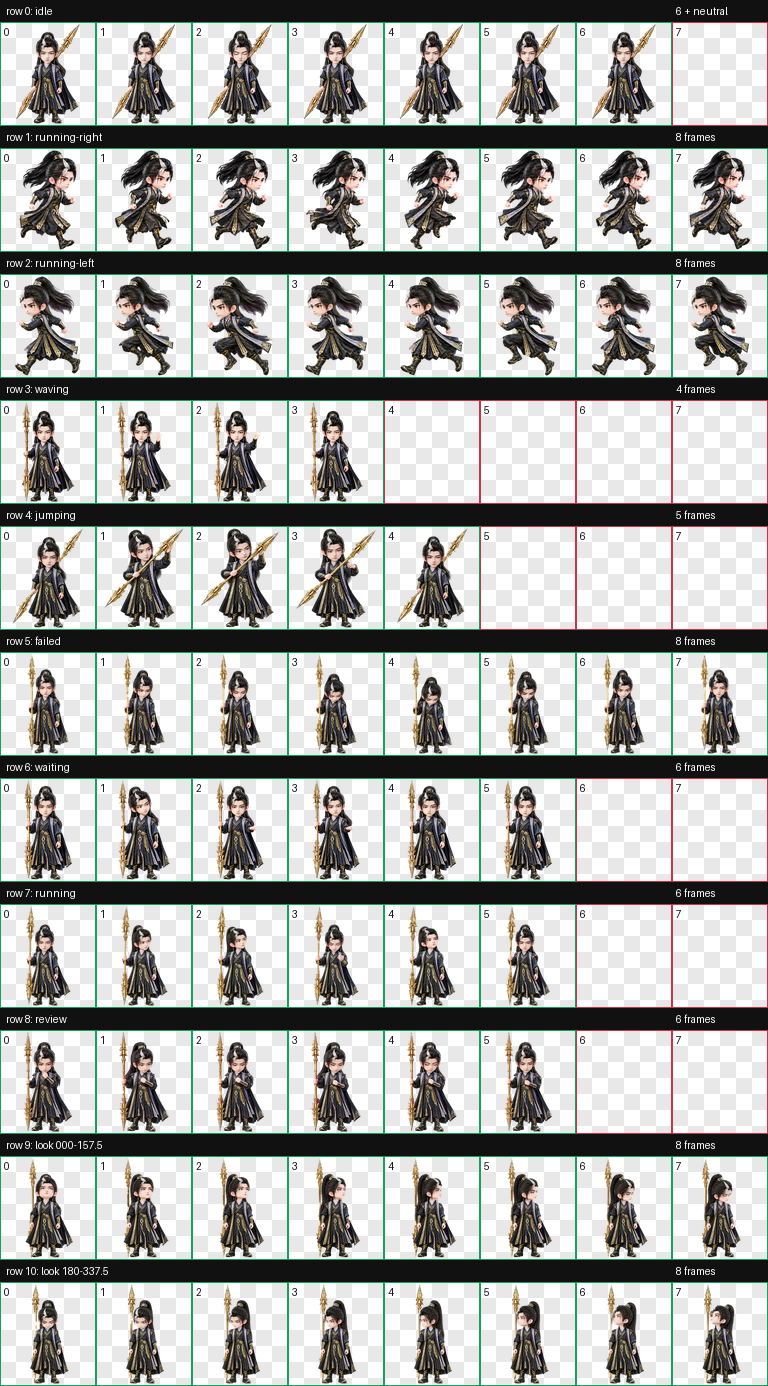
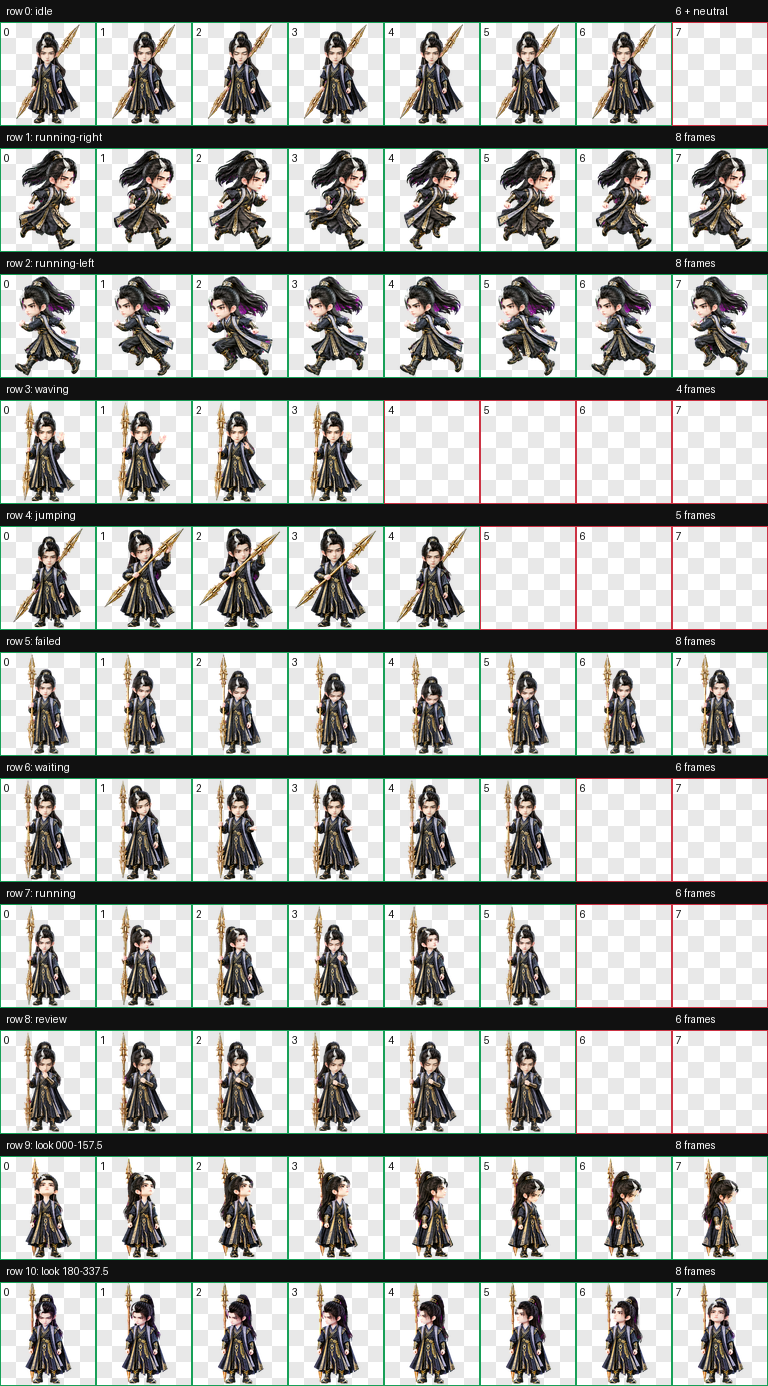
fix: publish Han Li peak face rework and corrected look directions

diff --git a/hanli-jiedan-peak/README.md b/hanli-jiedan-peak/README.md
@@ -4,6 +4,8 @@
 
 形象采用精致中国 3D 动漫 Q 版造型，保留高束长发、银白前发、深蓝黑金纹法袍与双尖噬金虫金枪。`jumping` 状态不做跳跃，按已确认动作设计为双脚落地的摸枪流程：横枪、从枪头背面轻触检查，再回到初始姿势。
 
+当前发布版为 2026-10-08 脸部重做版，九个标准动作与 16 个观察方向均使用新版形象，安装图集与本页动画预览同步更新。
+
 ![韩立·结丹巅峰待机动画](assets/idle.gif)
 
 ## 动作总览
@@ -24,6 +26,12 @@
 | Look directions | 16 个顺时针观察方向，金枪竖直背于身后 |
 
 ![韩立·结丹巅峰摸枪动画](assets/jumping.gif)
+
+## 观察方向
+
+![韩立·结丹巅峰 16 向观察总览](assets/look-directions.png)
+
+方向按屏幕坐标顺时针排列：`000` 向上、`090` 向右、`180` 向下、`270` 向左；其余为相邻方向之间的观察姿势。
 
 ## 安装
 
@@ -47,6 +55,8 @@ Copy-Item .\hanli-jiedan-peak\pet.json, .\hanli-jiedan-peak\spritesheet.webp -De
 | 单帧尺寸 | 192 × 208 |
 | 格式 | RGBA WebP |
 
-最终图集已通过 v2 结构与透明背景校验、9 行动作检查、16 向语义检查、三份隔离方向盲测、连续性检查和独立最终视觉 QA。重做后的左向观察帧已确认朝屏幕左侧；枪身在观察方向中保持笔直。
+正式安装图集已通过 `validate_atlas.py --require-v2` 校验，结构、透明背景与未使用单元格均无错误或警告。九个标准动作、16 向语义检查、三份隔离方向盲测和独立最终视觉 QA 均通过；盲测多数结果确认了全部 28 个方向轴判断。此次重做也修正了 `202.5°` 的朝向，现为屏幕左下。
 
-`pet.json` 与 `spritesheet.webp` 是安装文件；`source/hanli-jiedan-peak-20260928-production` 保存生成输入、中间产物与完整 QA 证据。
+连续性检测的 `157.5° → 180°` 和 `270° → 292.5°` 指标警告经视觉复核接受：前者是侧脸转正面低头的轮廓变化，后者是抬头变化，未见明显尺度跳变、基线跳动或方向反转。`337.5°` 接近向上，左向线索较轻，作为中间方向的轻微警告保留。详细结果与发布文件 SHA-256 见 [QA 记录](assets/release-qa.json)。
+
+`pet.json` 与 `spritesheet.webp` 是安装文件；本地 `source/hanli-jiedan-peak-20261008-face-refactor` 保存此次重做的生成输入、中间产物与完整 QA 证据。生产源文件按仓库规则保留在本地，不随发布文件推送。

diff --git a/README.md b/README.md
@@ -17,7 +17,7 @@
 | 南宫婉（`nangong-wan`） | 银蓝发冠、额心红纹与蓝白仙裙的清雅少女，悬停时双手掐诀、双脚落地 | Codex Pet Sprite v2 | [查看角色](nangong-wan/README.md) |
 | 乐上师（`yueshangshi`） | 青绿头纱、银色翠玉额饰与青绿银纹祭服的幕兰法士，展开双臂时保持双脚落地 | Codex Pet Sprite v2 | [查看角色](yueshangshi/README.md) |
 | 韩立（`hanli`） | 青竹小轩时期的青绿竹纹长袍与沉静锐利眼神，悬停时持古卷推演阵法 | Codex Pet Sprite v2 | [查看角色](hanli/README.md) |
-| 韩立·结丹巅峰（`hanli-jiedan-peak`） | 深蓝黑金纹法袍、银白前发与双尖噬金虫金枪，悬停时横枪轻触枪头 | Codex Pet Sprite v2 | [查看角色](hanli-jiedan-peak/README.md) |
+| 韩立·结丹巅峰（`hanli-jiedan-peak`） | 深蓝黑金纹法袍、银白前发与双尖噬金虫金枪，悬停时横枪轻触枪头；2026-10-08 脸部重做版 | Codex Pet Sprite v2 | [查看角色](hanli-jiedan-peak/README.md) |
 | 玄骨（`xuangu`） | 黑色长发、红色下眼妆、蓝羽耳饰与冰蓝黑金长袍，悬停时右手指尖点燃蓝色灵焰 | Codex Pet Sprite v2 | [查看角色](xuangu/README.md) |
 | 韩立·元婴（`hanli-yuanying`） | 半束黑色长发、深蓝金纹法袍与金色肩腰饰，悬停时双脚落地、胸前掐诀结印 | Codex Pet Sprite v2 | [查看角色](hanli-yuanying/README.md) |
 | 凌玉灵（`lingyuling`） | 灰白金星宫长袍、右侧弧形梳饰与清雅眉眼，悬停时正面双手比心 | Codex Pet Sprite v2 | [查看角色](lingyuling/README.md) |
